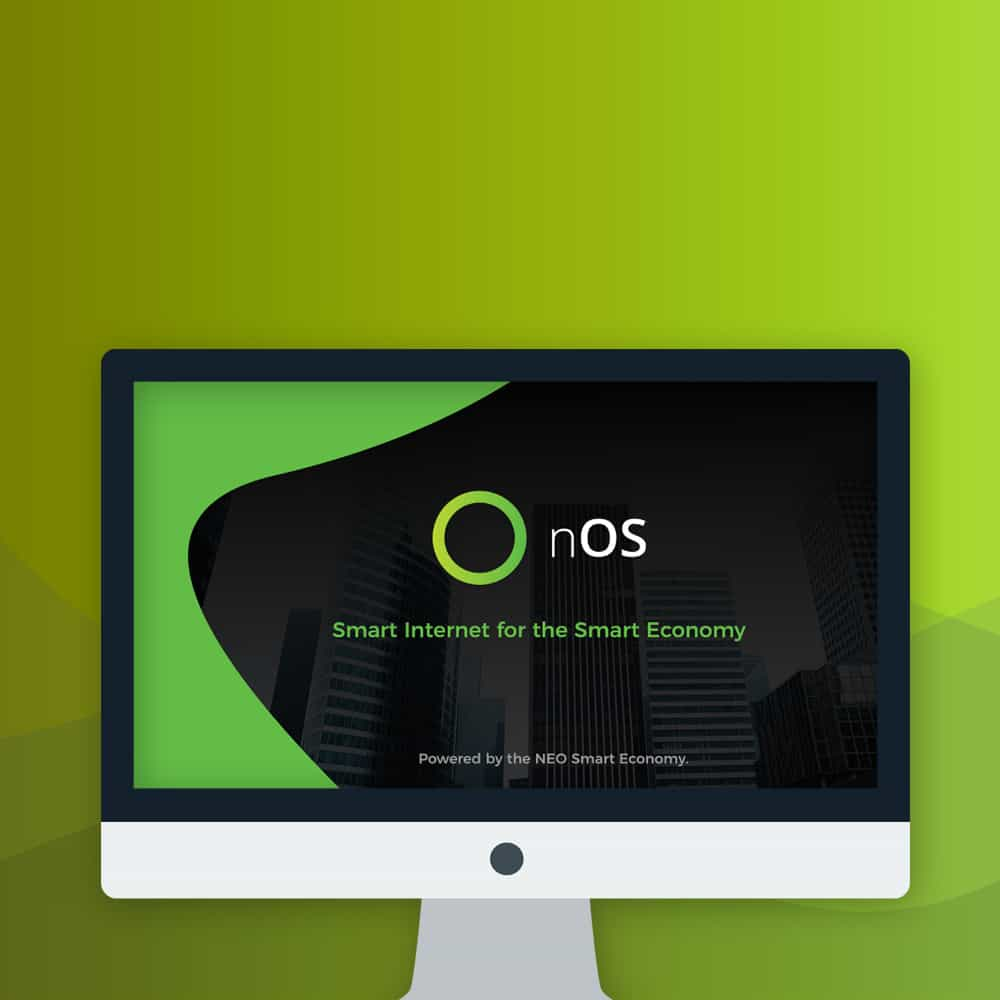
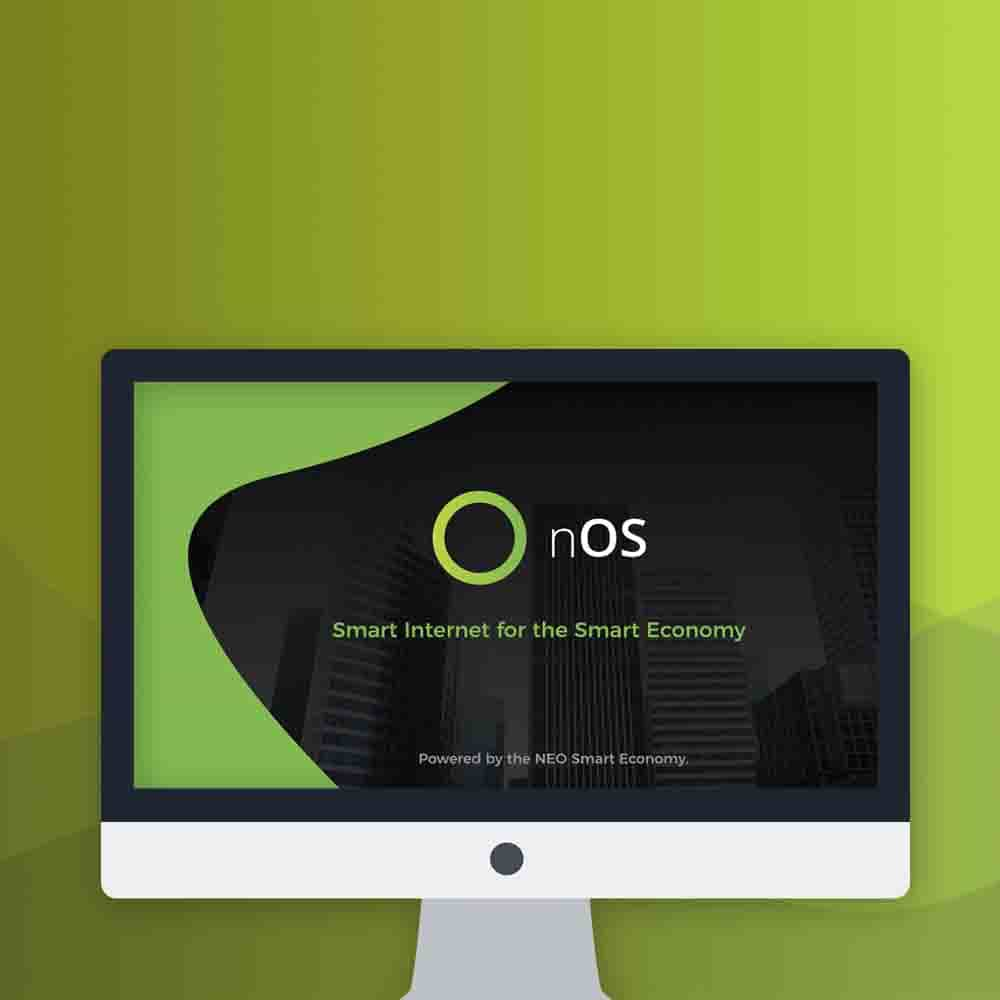
Low resolution images added

diff --git a/public/index1.html b/public/index1.html
@@ -203,101 +203,8 @@
 
             <!-- portfolio_container -->
             <div class="no-padding portfolio_container clearfix" data-aos="fade-up">
-              <!-- single work -->
-              <div class="col-md-4 col-sm-6  marketing">
-                <a id="w1" href="#animatedModal" class="portfolio_item" data-id="1">
-                  <img src="img/portfolio/m1.jpg" alt="image" class="img-responsive" />
-                  <div class="portfolio_item_hover">
-                    <div class="portfolio-border clearfix">
-                      <div class="item_info">
-                        <span>Gupshup</span>
-                        <em>Marketing</em>
-                      </div>
-                    </div>
-                  </div>
-                </a>
-              </div>
-              <!-- end single work -->
-
-              <!-- single work -->
-              <div class="col-md-4 col-sm-6 marketing">
-                <a id="w1" href="#animatedModal" class="portfolio_item" data-id="2">
-                  <img src="img/portfolio/m2.jpg" alt="image" class="img-responsive" />
-                  <div class="portfolio_item_hover">
-                    <div class="portfolio-border clearfix">
-                      <div class="item_info">
-                        <span>Provoz</span>
-                        <em>Marketing</em>
-                      </div>
-                    </div>
-                  </div>
-                </a>
-              </div>
-              <!-- end single work -->
-
-              <!-- single work -->
-              <div class="col-md-4 col-sm-6 marketing">
-                <a id="w3" href="#animatedModal" class="portfolio_item" data-id="3">
-                  <img src="img/portfolio/m3.jpg" alt="image" class="img-responsive" />
-                  <div class="portfolio_item_hover">
-                    <div class="portfolio-border clearfix">
-                      <div class="item_info">
-                        <span>Mo Bhubaneswar by Nite Marathon</span>
-                        <em>Marketing</em>
-                      </div>
-                    </div>
-                  </div>
-                </a>
-              </div>
-              <!-- end single work -->
-
-              <!-- single work -->
-              <div class="col-md-4 col-sm-6 marketing">
-                <a id="w4" href="#animatedModal" class="portfolio_item" data-id="4">
-                  <img src="img/portfolio/m4.jpg" alt="image" class="img-responsive" />
-                  <div class="portfolio_item_hover">
-                    <div class="portfolio-border clearfix">
-                      <div class="item_info">
-                        <span>Saheli</span>
-                        <em>Marketing</em>
-                      </div>
-                    </div>
-                  </div>
-                </a>
-              </div>
-              <!-- end single work -->
-
-              <!-- single work -->
-              <div class="col-md-4 col-sm-6 marketing">
-                <a id="w5" href="#animatedModal" class="portfolio_item" data-id="5">
-                  <img src="img/portfolio/m5.jpg" alt="image" class="img-responsive" />
-                  <div class="portfolio_item_hover">
-                    <div class="portfolio-border clearfix">
-                      <div class="item_info">
-                        <span>Fuzion</span>
-                        <em>Marketing</em>
-                      </div>
-                    </div>
-                  </div>
-                </a>
-              </div>
-              <!-- end single work -->
-
-              <!-- single work -->
-              <div class="col-md-4 col-sm-6 marketing">
-                <a id="w6" href="#animatedModal" class="portfolio_item" data-id="6">
-                  <img src="img/portfolio/m6.jpg" alt="image" class="img-responsive" />
-                  <div class="portfolio_item_hover">
-                    <div class="portfolio-border clearfix">
-                      <div class="item_info">
-                        <span>Koyofea</span>
-                        <em>Marketing</em>
-                      </div>
-                    </div>
-                  </div>
-                </a>
-              </div>
-              <!-- end single work -->
+             
+              
 
               <!-- single work -->
               <div class="col-md-4 col-sm-6 ui">
@@ -500,6 +407,102 @@
                       <div class="item_info">
                         <span>Faboca</span>
                         <em>Design</em>
+                      </div>
+                    </div>
+                  </div>
+                </a>
+              </div>
+              <!-- end single work -->
+
+              <!-- single work -->
+              <div class="col-md-4 col-sm-6  marketing">
+                <a id="w1" href="#animatedModal" class="portfolio_item" data-id="1">
+                  <img src="img/portfolio/1.jpg" alt="image" class="img-responsive" />
+                  <div class="portfolio_item_hover">
+                    <div class="portfolio-border clearfix">
+                      <div class="item_info">
+                        <span>Gupshup</span>
+                        <em>Marketing</em>
+                      </div>
+                    </div>
+                  </div>
+                </a>
+              </div>
+              <!-- end single work -->
+              
+              <!-- single work -->
+              <div class="col-md-4 col-sm-6 marketing">
+                <a id="w1" href="#animatedModal" class="portfolio_item" data-id="2">
+                  <img src="img/portfolio/2.jpg" alt="image" class="img-responsive" />
+                  <div class="portfolio_item_hover">
+                    <div class="portfolio-border clearfix">
+                      <div class="item_info">
+                        <span>Provoz</span>
+                        <em>Marketing</em>
+                      </div>
+                    </div>
+                  </div>
+                </a>
+              </div>
+              <!-- end single work -->
+              
+              <!-- single work -->
+              <div class="col-md-4 col-sm-6 marketing">
+                <a id="w3" href="#animatedModal" class="portfolio_item" data-id="3">
+                  <img src="img/portfolio/3.jpg" alt="image" class="img-responsive" />
+                  <div class="portfolio_item_hover">
+                    <div class="portfolio-border clearfix">
+                      <div class="item_info">
+                        <span>Mo Bhubaneswar by Nite Marathon</span>
+                        <em>Marketing</em>
+                      </div>
+                    </div>
+                  </div>
+                </a>
+              </div>
+              <!-- end single work -->
+              
+              <!-- single work -->
+              <div class="col-md-4 col-sm-6 marketing">
+                <a id="w4" href="#animatedModal" class="portfolio_item" data-id="4">
+                  <img src="img/portfolio/4.jpg" alt="image" class="img-responsive" />
+                  <div class="portfolio_item_hover">
+                    <div class="portfolio-border clearfix">
+                      <div class="item_info">
+                        <span>Saheli</span>
+                        <em>Marketing</em>
+                      </div>
+                    </div>
+                  </div>
+                </a>
+              </div>
+              <!-- end single work -->
+              
+              <!-- single work -->
+              <div class="col-md-4 col-sm-6 marketing">
+                <a id="w5" href="#animatedModal" class="portfolio_item" data-id="5">
+                  <img src="img/portfolio/5.jpg" alt="image" class="img-responsive" />
+                  <div class="portfolio_item_hover">
+                    <div class="portfolio-border clearfix">
+                      <div class="item_info">
+                        <span>Fuzion</span>
+                        <em>Marketing</em>
+                      </div>
+                    </div>
+                  </div>
+                </a>
+              </div>
+              <!-- end single work -->
+              
+              <!-- single work -->
+              <div class="col-md-4 col-sm-6 marketing">
+                <a id="w6" href="#animatedModal" class="portfolio_item" data-id="6">
+                  <img src="img/portfolio/6.jpg" alt="image" class="img-responsive" />
+                  <div class="portfolio_item_hover">
+                    <div class="portfolio-border clearfix">
+                      <div class="item_info">
+                        <span>Koyofea</span>
+                        <em>Marketing</em>
                       </div>
                     </div>
                   </div>
